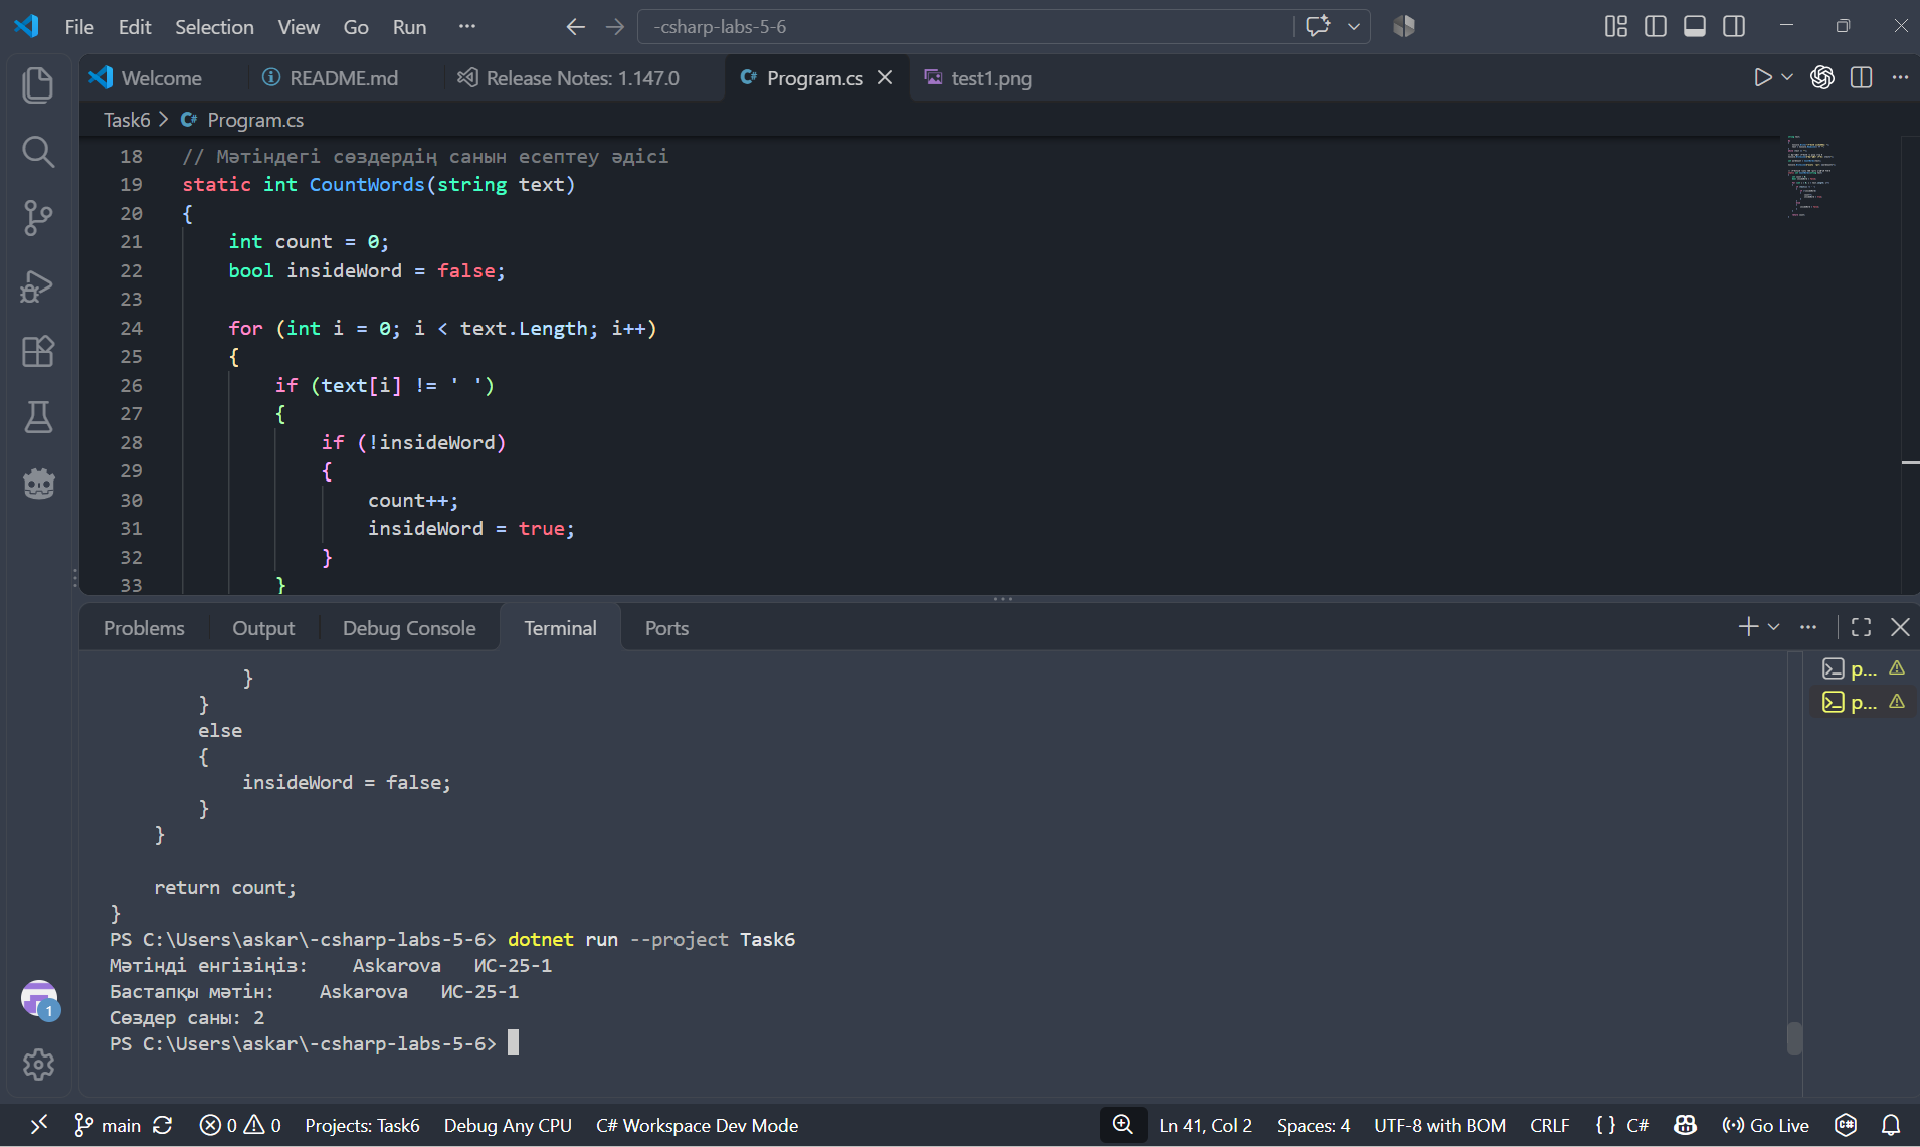
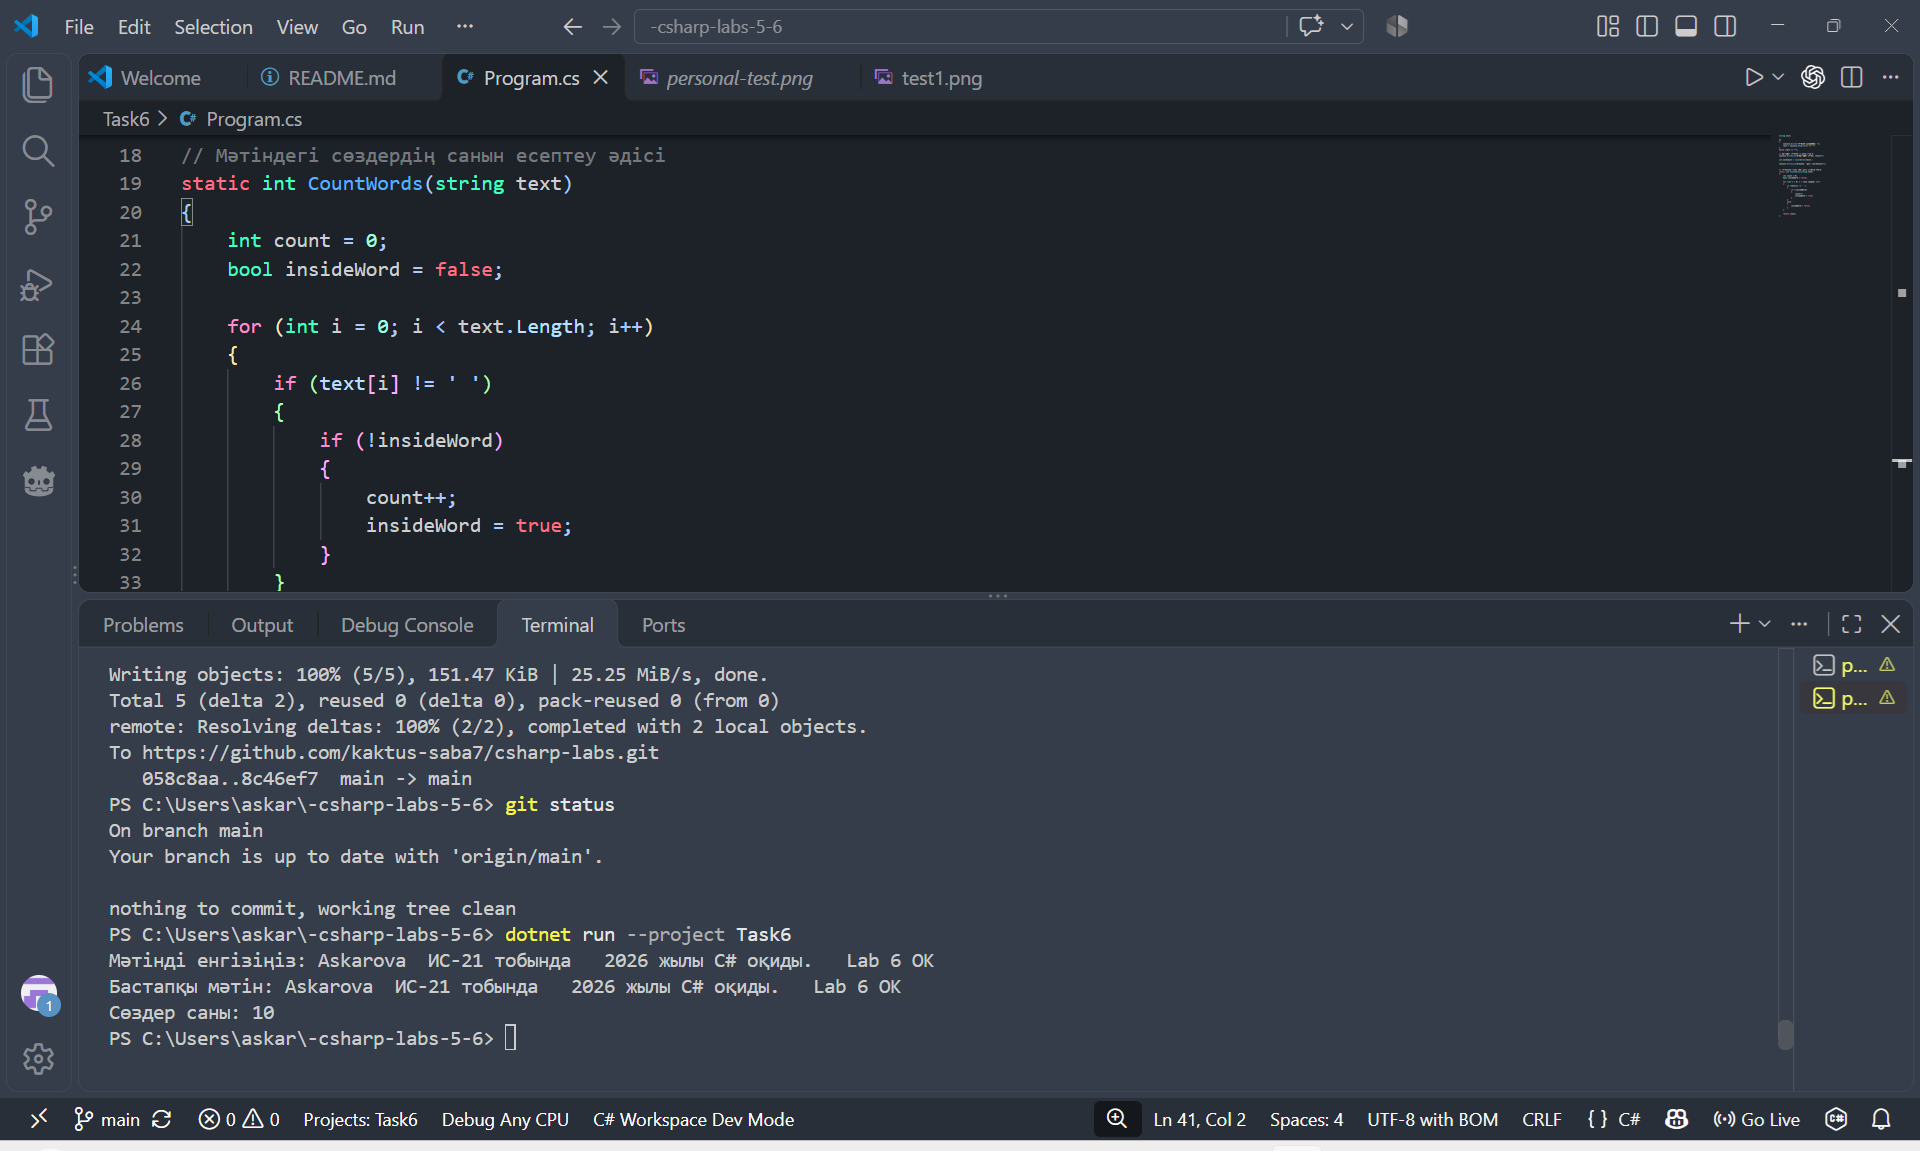
Update Task6 README and personal test screenshot

diff --git a/Task6/README.md b/Task6/README.md
@@ -2,7 +2,7 @@
 
 **Студент:** Аскарова Сарбар  
 **Тізімдегі нөмір:** 2  
-**Нұсқа:** 1  
+**Нұсқа:** 1
 
 ## 1. Тапсырманың мақсаты
 
@@ -12,11 +12,11 @@
 
 ## 2. Бағдарламаның жұмыс алгоритмі
 
-1. Пайдаланушыдан мәтін енгізу сұралады.
-2. Егер мәтін бос болса, бағдарлама қайтадан мәтін енгізуді сұрайды.
+1. Пайдаланушыдан мәтін `Console.ReadLine()` арқылы енгізіледі.
+2. Егер мәтін бос болса, `do-while` циклі арқылы қайта енгізу сұралады.
 3. Енгізілген бастапқы мәтін экранға шығарылады.
 4. `CountWords()` әдісі шақырылады.
-5. Мәтіндегі символдар біртіндеп тексеріледі.
+5. Мәтіндегі символдар `for` циклі арқылы біртіндеп тексеріледі.
 6. Егер жаңа сөз басталса, сөз санауышы 1-ге артады.
 7. Сөздердің жалпы саны экранға шығарылады.
 
@@ -24,7 +24,7 @@
 
 ### 3.1. `text[i]` дегеніміз не және оның типі қандай?
 
-`text[i]` — мәтіндегі индексі `i` болатын символ.
+`text[i]` — мәтіндегі индексі `i` болатын символды қайтарады.
 
 Оның типі — `char`.
 
@@ -59,7 +59,7 @@
 
 Бұл бағдарламада пайдаланушы бос мәтін енгізсе, мәтінді қайта енгізу сұралады.
 
-## ## 4. Бағдарламаның нәтижесі
+## 4. Бағдарламаның нәтижесі
 
 Бағдарламаның дұрыс жұмыс істеуін тексеру үшін үш тест орындалды.
 
@@ -67,23 +67,31 @@
 
 **Енгізілген мәтін:**
 
-`   Askarova   ИС-25-1   `
+`Askarova  ИС-21 тобында   2026 жылы C# оқиды.   Lab 6 ОК   `
 
-Мәтіннің басында, сөздердің арасында және соңында бірнеше бос орын бар.
+Мәтіннің басында, ортасында және соңында бірнеше бос орын бар.
 
 **Қолмен есептеу:**
 
 1. Askarova
-2. ИС-25-1
+2. ИС-21
+3. тобында
+4. 2026
+5. жылы
+6. C#
+7. оқиды.
+8. Lab
+9. 6
+10. ОК
 
-**Күтілетін нәтиже:** 2 сөз.
+**Күтілетін нәтиже:** 10 сөз.
 
 **Бағдарлама нәтижесі:**
 
 ```text
-Мәтінді енгізіңіз:    Askarova   ИС-25-1
-Бастапқы мәтін:    Askarova   ИС-25-1
-Сөздер саны: 2
+Мәтінді енгізіңіз: Askarova  ИС-21 тобында   2026 жылы C# оқиды.   Lab 6 ОК
+Бастапқы мәтін: Askarova  ИС-21 тобында   2026 жылы C# оқиды.   Lab 6 ОК
+Сөздер саны: 10
 ```
 
 **Скриншот:**
@@ -134,70 +142,35 @@
 
 ### 4.4. Тест нәтижелерінің кестесі
 
-| № | Енгізілген мәтін | Күтілетін нәтиже | Нақты нәтиже | Статус |
-|---|---|---:|---:|---|
-| 1 | `   Askarova   ИС-25-1   ` | 2 | 2 | Өтті |
-| 2 | `Hello my world` | 3 | 3 | Өтті |
-| 3 | `Programming` | 1 | 1 | Өтті |
+| Тест | Кіріс | Қолмен есептеген жауап | Бағдарлама жауабы |
+|---|---|---:|---:|
+| Жеке тест | `Askarova  ИС-21 тобында   2026 жылы C# оқиды.   Lab 6 ОК` | 10 | 10 |
+| Өз тестім 1 | `Hello my world` | 3 | 3 |
+| Өз тестім 2 | `Programming` | 1 | 1 |
 
 **Қорытынды:** Үш тест те сәтті орындалды. Бағдарлама мәтіндегі сөздерді дұрыс санайды.
-## 5. Git және GitHub
 
-Жұмыс барысында Git нұсқаларды басқару жүйесі қолданылды. Task6 тапсырмасы жеке `task6` тармағында орындалып, кейін Pull Request арқылы `main` тармағына біріктірілді.
+## 5. Сұрақтарға жауап
 
-### 5.1. Git командалары
+**1. `text[i]` нені қайтарады, типі қандай? Неге `text[i] = 'a';` деп жазуға болмайды?**
 
-| Команда | Қызметі |
-|---|---|
-| `git branch` | Тармақтар тізімін көрсетеді |
-| `git switch task6` | `task6` тармағына ауысады |
-| `git add .` | Өзгерістерді индекске қосады |
-| `git commit -m "message"` | Өзгерістерді сақтайды |
-| `git push` | Өзгерістерді GitHub-қа жібереді |
-| `git pull` | Қашықтағы өзгерістерді жүктейді |
-| `git log --oneline --graph --all` | Commit тарихын график түрінде көрсетеді |
+`text[i]` мәтіндегі индексі `i` болатын бір символды қайтарады. Оның типі — `char`. C# тіліндегі `string` өзгермейтін тип болғандықтан, оның жеке символын осылай тікелей өзгертуге болмайды.
 
-### 5.2. Task6 тапсырмасының commit тарихы
+**2. Жаңа сөздің басталғанын қалай анықтадыңыз? Жол бос орыннан басталса, программа қате санамай ма?**
 
-```text
-6091644 Create Task6 project structure
-eec8c06 Implement word counting algorithm
-a89be36 Add Task6 documentation
-554f324 Add Task6 execution screenshot
-b402c06 Complete Task6 tests and documentation
-e3d6db6 Add Task6 personal test screenshot and documentation
-058c8aa Merge pull request #5 from kaktus-saba7/task6
-```
+`insideWord` айнымалысы арқылы жаңа сөздің басталғанын анықтадым. Егер символ бос орын болмаса және `insideWord` мәні `false` болса, сөз санауышы бірге артады. Жол бос орыннан басталса да, бағдарлама дұрыс санайды, себебі бос орындар сөз ретінде есептелмейді.
 
-### 5.3. Pull Request
+**3. `result += ch;` орындалғанда жаңа жол жасала ма, әлде ескісі өзгере ме?**
 
-Task6 тапсырмасы `task6` тармағында орындалды. Жұмыс аяқталғаннан кейін GitHub-та Pull Request №5 құрылып, `main` тармағына сәтті біріктірілді.
+`string` өзгермейтін тип болғандықтан, `result += ch;` орындалғанда жаңа жол объектісі жасалады. Бұрынғы жол өзгермейді, айнымалы жаңа жолға сілтеме жасайды.
 
-**Merge commit:** `058c8aa`
+## 6. Кездескен қате
 
-**Репозиторий:** https://github.com/kaktus-saba7/csharp-labs
-## 6. Қателер және оларды түзету
+**Қате:** Бағдарламаны қайта құрастыру кезінде `MSB3027` және `MSB3021` қателері пайда болды. `Task6.exe` файлын басқа процесс қолданып тұрғандықтан, файлды көшіру мүмкін болмады.
 
-### 6.1. MSB3027 және MSB3021 қателері
+**Қатенің себебі:** Бұрын іске қосылған Task6 бағдарламасының процестері жабылмай қалған.
 
-**Қате сипаттамасы:**
-
-Бағдарламаны қайта құрастыру кезінде `Task6.exe` файлын көшіру мүмкін болмады. Себебі файл бұрын іске қосылған бағдарлама процестерімен қолданылып тұрған.
-
-**Қате хабарламалары:**
-
-```text
-MSB3027
-MSB3021
-Unable to copy apphost.exe to Task6.exe
-The process cannot access the file because it is being used by another process.
-```
-
-**Қатенің себебі:**
-
-Бұрын іске қосылған Task6 бағдарламасының процестері жабылмай қалған.
-
-**Шешу жолы:**
+**Қалай түзеттім:**
 
 1. PowerShell терминалында іске қосылған процестердің PID нөмірлері анықталды.
 2. `taskkill` командасы арқылы процестер тоқтатылды.
@@ -212,8 +185,63 @@ taskkill /PID 24864 /F
 dotnet run --project Task6
 ```
 
-**Нәтиже:**
+**Нәтиже:** Қате жойылып, бағдарлама дұрыс іске қосылды.
 
-Қате жойылып, бағдарлама дұрыс іске қосылды.
+**Түзеткен коммит:** Бұл қате жергілікті компьютердегі іске қосылған процестерге байланысты болғандықтан, оны түзету үшін код өзгертілген жоқ. Арнайы түзету коммиті жасалмады.
 
-**Git commit туралы ескерту:** Бұл мәселе жергілікті іске қосылған процестерге байланысты болғандықтан, оны шешу үшін код өзгертілген жоқ және арнайы Git commit жасалмады. Сондықтан түзетуші commit хэші жоқ.
+## 7. Git
+
+### 7.1. `git log --oneline --graph --all` командасының нәтижесі
+
+```text
+* 8c46ef7 (HEAD -> main, origin/main) Complete Task6 README and personal test
+*   058c8aa Merge pull request #5 from kaktus-saba7/task6
+|\  
+| * e3d6db6 (origin/task6, task6) Add Task6 personal test screenshot and documentation
+| * b402c06 Complete Task6 tests and documentation
+* |   f6949b1 Merge pull request #4 from kaktus-saba7/task5-test-results
+|\ \  
+| * | f0ea249 (origin/task5-test-results, task5-test-results) Add complete Task5 test results
+|/ /  
+* |   a14c69a Merge pull request #3 from kaktus-saba7/task5-corrections
+|\ \  
+| * | a080ee0 (origin/task5-corrections, task5-corrections) Update Task5 execution screenshot
+| * | b8b730d Improve Task5 documentation
+| * | 854be92 Fix main README table
+| * | 732b8fd Add Task5 test cases and loop analysis
+| * | c393f6a Update matrix random range
+|/ /  
+* | 73fd6cd Merge pull request #2 from kaktus-saba7/task6
+|\| 
+| * 554f324 Add Task6 execution screenshot
+| * a89be36 Add Task6 documentation
+| * eec8c06 Implement word counting algorithm
+| * 6091644 Create Task6 project structure
+|/  
+*   4c2eb93 Merge pull request #1 from kaktus-saba7/task5
+|\  
+| * 553d026 (origin/task5, task5) Add Task5 execution screenshot
+| * 1d75d53 Add Task5 documentation
+| * e26a81c Implement matrix and column maximum calculation
+| * d9e984b Create Task5 project structure
+|/  
+* 8218a6d Initial commit: add README and gitignore
+```
+
+### 7.2. Git сұрақтарына жауап
+
+**1. task5 тармағында жасаған коммиттеріңіз main-ге қалай түсті? Біріктіруден кейін task5 тармағы не болды?**
+
+`task5` тармағындағы өзгерістер GitHub-та Pull Request арқылы `main` тармағына біріктірілді. Біріктіру нәтижесінде барлық өзгерістер `main` тармағында сақталды. `task5` тармағы автоматты түрде жойылмайды, оны GitHub-та бөлек жоюға болады.
+
+**2. commit пен push айырмашылығы неде? Push жасамасаңыз, мұғалім не көреді?**
+
+`commit` өзгерістерді жергілікті компьютердегі Git тарихына сақтайды. `push` сол коммиттерді GitHub репозиторийіне жібереді. Push жасалмаса, мұғалім GitHub-тағы репозиторийден соңғы өзгерістерді көре алмайды.
+
+**3. .gitignore файлына не жаздыңыз және bin/, obj/ неге репозиторийге қосылмайды?**
+
+`.gitignore` файлына `bin/` және `obj/` сияқты уақытша құрастыру файлдарын қоспау ережелері жазылады. `bin/` ішінде құрастырылған бағдарламалар, ал `obj/` ішінде аралық файлдар сақталады. Олар қажет кезде қайта жасалатындықтан, репозиторийді артық файлдармен толтырмау үшін Git-ке қосылмайды.
+
+## 8. ЖИ қолдану
+
+Бұл тапсырманы орындау барысында ChatGPT қолданылды. ЖИ-ден C# бағдарламасының жұмыс алгоритмін, `CountWords()` әдісін, Git командаларын және README құрылымын түсіндіру сұралды. Ұсыныстар тексеріліп, бағдарлама компьютерде іске қосылды және тест нәтижелері тексерілді.
